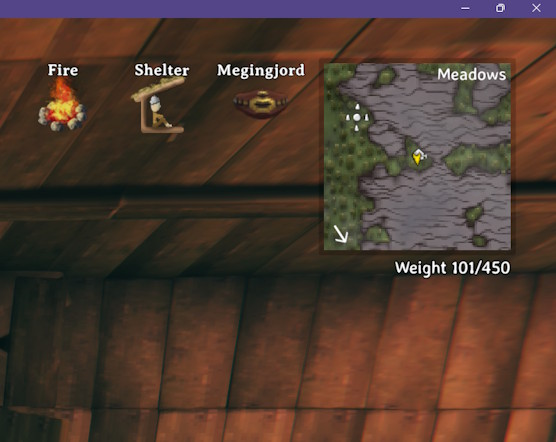
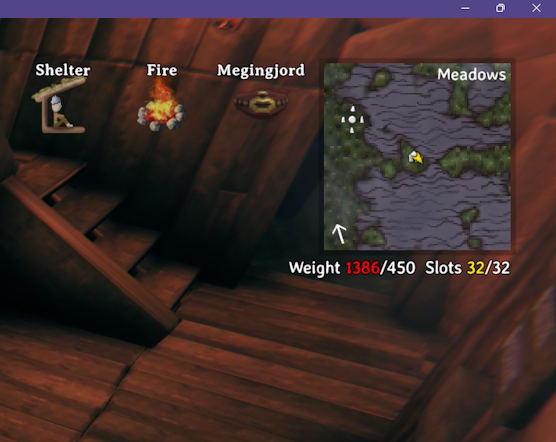
Show slots Add configuration options

diff --git a/WeightDisplay/WeightLabel.cs b/WeightDisplay/WeightLabel.cs
@@ -14,6 +14,8 @@ namespace WeightDisplay
 		private TextMeshProUGUI text;
 		private int shownWeight = -1;
 		private int shownMax = -1;
+		private int shownUsedSlots = -1;
+		private int shownSlots = -1;
 
 		/// <summary>
 		/// Creates the label once the HUD exists, hides it while the inventory or large map is open and otherwise
@@ -21,7 +23,10 @@ namespace WeightDisplay
 		/// </summary>
 		/// <param name="fontSize">Size of the weight text</param>
 		/// <param name="margin">Gap between the minimap or screen corner and the text</param>
-		public void Update(int fontSize, int margin)
+		/// <param name="showWeight">Whether to show the weight</param>
+		/// <param name="showSlots">Whether to show the slot count</param>
+		/// <param name="warnings">When the weight and slot count change color and which colors they take</param>
+		public void Update(int fontSize, int margin, bool showWeight, bool showSlots, WarningSettings warnings)
 		{
 			Player player = Player.m_localPlayer;
 			Hud hud = Hud.instance;
@@ -33,7 +38,7 @@ namespace WeightDisplay
 			{
 				Create(hud);
 			}
-			bool show = !InventoryGui.IsVisible() && !Minimap.IsOpen();
+			bool show = (showWeight || showSlots) && !InventoryGui.IsVisible() && !Minimap.IsOpen();
 			if (text.gameObject.activeSelf != show)
 			{
 				text.gameObject.SetActive(show);
@@ -43,8 +48,19 @@ namespace WeightDisplay
 				return;
 			}
 			text.fontSize = fontSize;
-			SetText(player);
+			SetText(player, showWeight, showSlots, warnings);
 			Position(margin);
+		}
+
+		/// <summary>
+		/// Makes the next update rebuild the text, for when a setting it depends on changes
+		/// </summary>
+		public void Refresh()
+		{
+			shownWeight = -1;
+			shownMax = -1;
+			shownUsedSlots = -1;
+			shownSlots = -1;
 		}
 
 		/// <summary>
@@ -77,26 +93,97 @@ namespace WeightDisplay
 			rect.anchorMax = new Vector2(1f, 1f);
 			rect.pivot = new Vector2(1f, 1f);
 			rect.sizeDelta = new Vector2(200f, 30f);
-			shownWeight = -1;
-			shownMax = -1;
+			Refresh();
 		}
 
 		/// <summary>
-		/// Rounds the same way as the inventory screen and only rebuilds the string when a number changes
+		/// Shows the weight and/or used inventory slots, rounding the weight the same way as the inventory screen and only
+		/// rebuilding the string when a number changes
 		/// </summary>
 		/// <param name="player">The local player</param>
-		private void SetText(Player player)
+		/// <param name="showWeight">Whether to show the weight</param>
+		/// <param name="showSlots">Whether to show the slot count</param>
+		/// <param name="warnings">When the weight and slot count change color and which colors they take</param>
+		private void SetText(Player player, bool showWeight, bool showSlots, WarningSettings warnings)
 		{
-			int weight = Mathf.CeilToInt(player.GetInventory().GetTotalWeight());
+			Inventory inventory = player.GetInventory();
+			int weight = Mathf.CeilToInt(inventory.GetTotalWeight());
 			int max = Mathf.CeilToInt(player.GetMaxCarryWeight());
-			if (weight == shownWeight && max == shownMax)
+			int usedSlots = inventory.NrOfItems();
+			int slots = inventory.GetWidth() * inventory.GetHeight();
+			if (weight == shownWeight && max == shownMax && usedSlots == shownUsedSlots && slots == shownSlots)
 			{
 				return;
 			}
 			shownWeight = weight;
 			shownMax = max;
-			string weightText = ((weight > max) ? "<color=red>" + weight + "</color>" : weight.ToString());
-			text.text = "Weight " + weightText + "/" + max;
+			shownUsedSlots = usedSlots;
+			shownSlots = slots;
+			string weightText = "Weight " + ColorWeight(weight, max, warnings) + "/" + max;
+			string slotsText = "Slots " + ColorSlots(usedSlots, slots, warnings) + "/" + slots;
+			if (showWeight && showSlots)
+			{
+				text.text = weightText + "  " + slotsText;
+			}
+			else
+			{
+				text.text = (showWeight ? weightText : slotsText);
+			}
+		}
+
+		/// <summary>
+		/// Colors the weight when overburdened, or when at or above the warning percentage of the maximum
+		/// </summary>
+		/// <param name="weight">Rounded current weight</param>
+		/// <param name="max">Rounded maximum carry weight</param>
+		/// <param name="warnings">When the weight changes color and which colors it takes</param>
+		/// <returns>The weight, wrapped in a color tag when near or over the maximum</returns>
+		private static string ColorWeight(int weight, int max, WarningSettings warnings)
+		{
+			if (weight > max)
+			{
+				return(Colorize(weight, warnings.OverburdenedColor.Value));
+			}
+			else if (weight * 100 >= max * warnings.WeightWarningPercent.Value)
+			{
+				return(Colorize(weight, warnings.WeightWarningColor.Value));
+			}
+			return(weight.ToString());
+		}
+
+		/// <summary>
+		/// Colors the used slot count when every slot is in use, or when the warning number of open slots or fewer are left
+		/// </summary>
+		/// <param name="usedSlots">Number of slots holding an item</param>
+		/// <param name="slots">Total number of inventory slots</param>
+		/// <param name="warnings">When the slot count changes color and which colors it takes</param>
+		/// <returns>The used slot count, wrapped in a color tag when near or at the total</returns>
+		private static string ColorSlots(int usedSlots, int slots, WarningSettings warnings)
+		{
+			if (usedSlots >= slots)
+			{
+				return(Colorize(usedSlots, warnings.FullSlotsColor.Value));
+			}
+			else if (slots - usedSlots <= warnings.SlotWarningOpenSlots.Value)
+			{
+				return(Colorize(usedSlots, warnings.SlotWarningColor.Value));
+			}
+			return(usedSlots.ToString());
+		}
+
+		/// <summary>
+		/// Wraps a number in a color tag, or leaves it uncolored when no color is set
+		/// </summary>
+		/// <param name="number">The number to color</param>
+		/// <param name="color">Color name or #RRGGBB value</param>
+		/// <returns>The number, wrapped in a color tag when a color is set</returns>
+		private static string Colorize(int number, string color)
+		{
+			if (string.IsNullOrWhiteSpace(color))
+			{
+				return(number.ToString());
+			}
+			return("<color=" + color.Trim() + ">" + number + "</color>");
 		}
 
 		/// <summary>

diff --git a/WeightDisplay/Plugin.cs b/WeightDisplay/Plugin.cs
@@ -10,21 +10,28 @@ namespace WeightDisplay
 	{
 		public const string PluginGuid = "kriona.WeightDisplay";
 		public const string PluginName = "Weight Display";
-		public const string PluginVersion = "1.2.0";
+		public const string PluginVersion = "1.3.0";
 
 		private ConfigEntry<int> fontSize;
 		private ConfigEntry<int> margin;
+		private ConfigEntry<bool> showWeight;
+		private ConfigEntry<bool> showSlots;
+		private WarningSettings warnings;
 		private readonly WeightLabel label = new WeightLabel();
 		private Harmony harmony;
 		private ConfigWatcher watcher;
 
 		/// <summary>
-		/// Binds the display settings, watches the config file for changes and applies the patches
+		/// Binds the display and warning settings, watches the config file for changes and applies the patches
 		/// </summary>
 		private void Awake()
 		{
+			showWeight = Config.Bind("Display", "ShowWeight", true, "Show your current and maximum carry weight");
+			showSlots = Config.Bind("Display", "ShowSlots", true, "Show how many inventory slots are in use");
 			fontSize = Config.Bind("Display", "FontSize", 18, "Size of the weight text");
 			margin = Config.Bind("Display", "Margin", 6, "Gap between the minimap (or the screen corner when there is no minimap) and the text");
+			warnings = new WarningSettings(Config);
+			Config.SettingChanged += OnSettingChanged;
 			watcher = new ConfigWatcher(Config.ConfigFilePath, Config.Reload, Logger);
 			harmony = new Harmony(PluginGuid);
 			harmony.PatchAll();
@@ -44,7 +51,17 @@ namespace WeightDisplay
 		/// </summary>
 		private void LateUpdate()
 		{
-			label.Update(fontSize.Value, margin.Value);
+			label.Update(fontSize.Value, margin.Value, showWeight.Value, showSlots.Value, warnings);
+		}
+
+		/// <summary>
+		/// Rebuilds the label's text so a changed color setting shows straight away
+		/// </summary>
+		/// <param name="sender">The config file</param>
+		/// <param name="e">The setting that changed</param>
+		private void OnSettingChanged(object sender, SettingChangedEventArgs e)
+		{
+			label.Refresh();
 		}
 
 		/// <summary>
@@ -52,6 +69,7 @@ namespace WeightDisplay
 		/// </summary>
 		private void OnDestroy()
 		{
+			Config.SettingChanged -= OnSettingChanged;
 			label.Destroy();
 			watcher?.Dispose();
 			harmony?.UnpatchSelf();

diff --git a/WeightDisplay/WarningSettings.cs b/WeightDisplay/WarningSettings.cs
@@ -1,0 +1,36 @@
+using BepInEx.Configuration;
+
+namespace WeightDisplay
+{
+	/// <summary>
+	/// The config settings for when the weight and slot numbers change color and which colors they take
+	/// </summary>
+	/// <remarks>
+	/// BepInEx writes sections in alphabetical order, so Warnings follows Display in the config file
+	/// </remarks>
+	public class WarningSettings
+	{
+		private const string ColorHint = " - a name (black, blue, green, orange, purple, red, white, yellow) or #RRGGBB, left empty for no color";
+
+		public readonly ConfigEntry<int> WeightWarningPercent;
+		public readonly ConfigEntry<string> WeightWarningColor;
+		public readonly ConfigEntry<string> OverburdenedColor;
+		public readonly ConfigEntry<int> SlotWarningOpenSlots;
+		public readonly ConfigEntry<string> SlotWarningColor;
+		public readonly ConfigEntry<string> FullSlotsColor;
+
+		/// <summary>
+		/// Binds the warning settings in the Warnings section of the config file
+		/// </summary>
+		/// <param name="config">The plugin's config file</param>
+		public WarningSettings(ConfigFile config)
+		{
+			WeightWarningPercent = config.Bind("Warnings","WeightWarningPercent", 80, new ConfigDescription("Percentage of your maximum carry weight at which the weight takes WeightWarningColor", new AcceptableValueRange<int>(1, 100)));
+			WeightWarningColor = config.Bind("Warnings","WeightWarningColor", "yellow", "Color of the weight at or above WeightWarningPercent" + ColorHint);
+			OverburdenedColor = config.Bind("Warnings","OverburdenedColor", "red", "Color of the weight when you're overburdened" + ColorHint);
+			SlotWarningOpenSlots = config.Bind("Warnings","SlotWarningOpenSlots", 3, new ConfigDescription("Number of open inventory slots at or below which the slot count takes SlotWarningColor", new AcceptableValueRange<int>(1, 100)));
+			SlotWarningColor = config.Bind("Warnings","SlotWarningColor", "", "Color of the slot count when SlotWarningOpenSlots or fewer slots are open" + ColorHint);
+			FullSlotsColor = config.Bind("Warnings","FullSlotsColor", "yellow", "Color of the slot count when every slot is in use" + ColorHint);
+		}
+	}
+}

diff --git a/WeightDisplay/README.md b/WeightDisplay/README.md
@@ -1,7 +1,10 @@
 # Weight Display
 
-Shows your current and maximum carry weight on the HUD, just below the minimap.
+Shows your current and maximum carry weight, followed by how many inventory slots are in use, on the HUD just below the minimap.
 
+- The weight turns yellow at 80% of your maximum and red when you're overburdened
+- The slot count turns yellow when every slot is in use. Optional: it can warn you when you're close
+- All of the colors and warning thresholds can be changed, and either the weight or the slot count can be turned off
 - Moves to the top-right corner when the minimap is hidden
 - Hides along with the rest of the HUD
 
@@ -13,8 +16,18 @@ Shows your current and maximum carry weight on the HUD, just below the minimap.
 
 | Setting | Default | Description |
 | --- | --- | --- |
+| ShowWeight | true | Show your current and maximum carry weight |
+| ShowSlots | true | Show how many inventory slots are in use |
 | FontSize | 18 | Size of the weight text |
 | Margin | 6 | Gap between the minimap (or the screen corner) and the text |
+| WeightWarningPercent | 80 | Percentage of your maximum carry weight at which the weight takes WeightWarningColor (1-100) |
+| WeightWarningColor | yellow | Color of the weight at or above WeightWarningPercent |
+| OverburdenedColor | red | Color of the weight when you're overburdened |
+| SlotWarningOpenSlots | 3 | Number of open inventory slots at or below which the slot count takes SlotWarningColor (1-100) |
+| SlotWarningColor | (empty) | Color of the slot count when SlotWarningOpenSlots or fewer slots are open |
+| FullSlotsColor | yellow | Color of the slot count when every slot is in use |
+
+Colors can be a name (black, blue, green, orange, purple, red, white, yellow) or a `#RRGGBB` value. Leave one empty to keep the number uncolored at that point.
 
 ## Installation
 

diff --git a/WeightDisplay/CHANGELOG.md b/WeightDisplay/CHANGELOG.md
@@ -1,5 +1,10 @@
 # Changelog
 
+## 1.3.0
+- Shows how many inventory slots are in use after the weight
+- Add settings to toggle weight / slots
+- Add warning thresholds / colors
+
 ## 1.2.0
 - Config changes take effect as soon as the file is saved; you don't need to restart Valheim or rejoin the world
 
